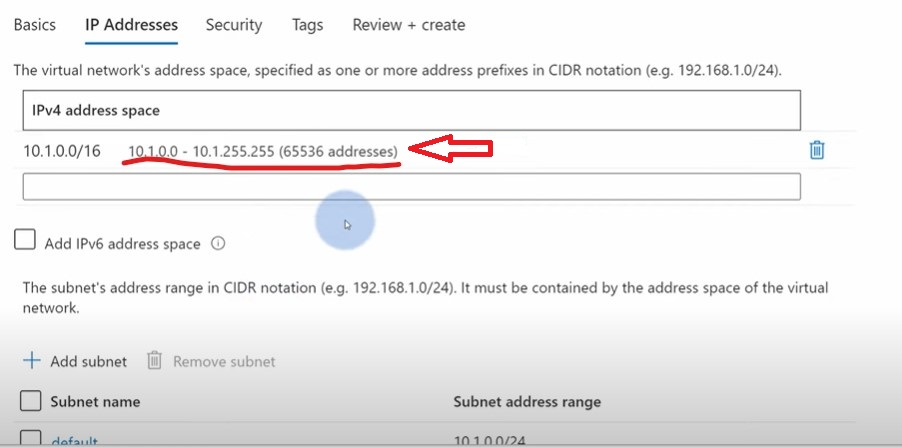
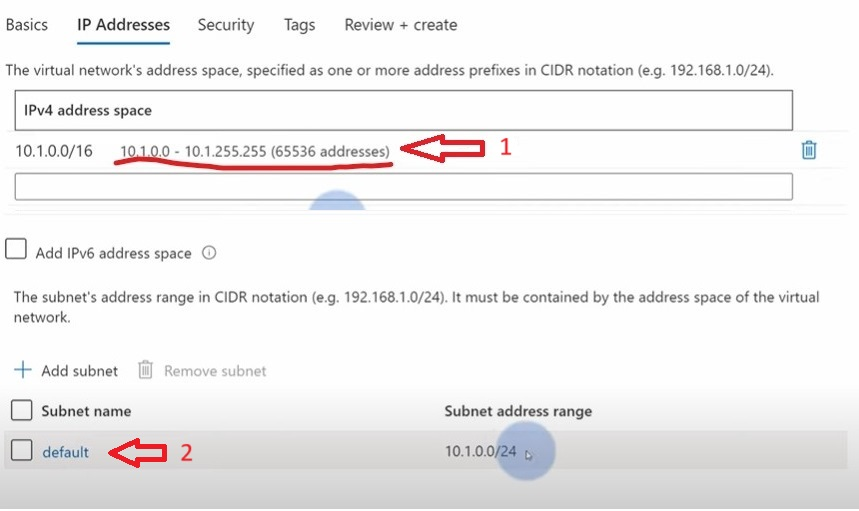
notes

diff --git a/Azure/README - ep_25.md b/Azure/README - ep_25.md
@@ -25,11 +25,13 @@ All of that things/processes like controlling, verifying, tracking and managing 
 
 # Microsoft Entra ID ![logo33](https://github.com/Julian22222/Clouds/blob/main/Azure/logo/logo33.jpg)
 
-Azure Active Directory (Azure AD) is now Microsoft Entra ID
+Previous service --> Azure Active Directory (Azure AD) is now Microsoft Entra ID
 
 ![pic136](https://github.com/Julian22222/Clouds/blob/main/Azure/IMG/pic136.jpg)
 
-Everything that we did so far in Azure Portal when we as a users were connecting to Azure and managing our Subscriptions, our Resources like VMs, Databases and Resource Groups went through Azure AD. So not only Azure AD is storing our Azure accounts but also is granting permissions to access Azure Resources and it governs/control all the access to those specific resources. Also Azure AD doesn't only work with Azure platform. If you are using one of the live.com services liek -> SKYPE, OUTLOOK, ONEDRIVE. Again your user account on live.com is also stored in Azure AD and also Azure AD governing/controlling access to those services. If you are using your organizational resources like -> ONEDRIVE for business, SHAREPOINT, POWERBI, TEAMS or any other product from Office 365 platform again you are going through Azure AD. Azure AD manages your users groups, licenses and access to those services. Also, you can extend your own applications with authentication and authorization features of Azure Active Directory (Azure AD). Azure AD is quite powerful service
+Everything that we did so far in Azure Portal when we as a users were connecting to Azure and managing our Subscriptions, our Resources like VMs, Databases and Resource Groups went through Microsoft Entra ID. So not only Microsoft Entra ID is storing our Azure accounts but also is granting permissions to access Azure Resources and it governs/control all the access to those specific resources. Also Microsoft Entra ID doesn't only work with Azure platform. If you are using one of the live.com services liek -> SKYPE, OUTLOOK, ONEDRIVE. Again your user account on live.com is also stored in Microsoft Entra ID and also Microsoft Entra ID governing/controlling access to those services. If you are using your organizational resources like -> ONEDRIVE for business, SHAREPOINT, POWERBI, TEAMS or any other product from Office 365 platform again you are going through Azure AD. Microsoft Entra ID manages your users groups, licenses and access to those services. Also, you can extend your own applications with authentication and authorization features of Microsoft Entra ID.
+
+Microsoft Entra ID is quite powerful service
 
 # How to use Azure Active Directory (Azure AD) --> now it is Microsoft Entra ID
 
@@ -39,7 +41,7 @@ There are multiple ways how you can access Microsoft Entra ID.
 
 ![pic137](https://github.com/Julian22222/Clouds/blob/main/Azure/IMG/pic137.jpg)
 
-In order to manage Azure Active Directory (Azure AD) you need to have a Global administrator (step 1 on the picture), You can check that in the Microsoft Entra ID panel. Only then you will be able to manage evry aspect of it.
+In order to manage Microsoft Entra ID you need to have a Global administrator (step 1 on the picture), You can check that in the Microsoft Entra ID panel. Only then you will be able to manage every aspect of it.
 
 On the left side menu you have a lot of blades that allow you to manage most important things when it comes to Identities. For example: Users and Groups <- will allow you to create new Users and Groups (step 2 on the picture).
 
@@ -48,10 +50,10 @@ On the left side menu you have a lot of blades that allow you to manage most imp
 ![pic138](https://github.com/Julian22222/Clouds/blob/main/Azure/IMG/pic138.jpg)
 
 - Let's create new User Identity, Click on Users and then click -> + New user (to create new user)
-- Fill new User Identity form:
-  - User name <- which is our login and + add the domain (here you can use custom domain as well)
+- Fill new User Identity form: (see picture above)
+  - User name <- which is our login and + add the domain (here you can use custom domain as well), it is work email / user name for Azure Portal
   - Name <-- Display name (this name that will be displayed everywhere else in Azure Portal especially when we search for the specific user)
-  - Password (we can either auto generate or create yourself)
+  - Password (we can either auto generate or create yourself). Pasword to LogIn to Azure Portal
 - Then press --> Create
 
 And our new User Identity has been created --> It will show on Microsoft Entra ID panel. We can prove that this Identity works by LogIn to Azure Portal.
@@ -61,18 +63,23 @@ And our new User Identity has been created --> It will show on Microsoft Entra I
 - Go to Groups
 - Press --> + New group (to create new group)
 - Fill new Group form:
-  - Group type (Security)
+  - Group type --> (choose Security)
   - Group name
   - Members <-- Here you can assign members to this Group
 - Then hit --> Create
+
+This just created group can be assign to Role assignment --> in IAM (in Resource Group) --> step
 
 ### Where to use just created Users and Groups
 
 ![pic139](https://github.com/Julian22222/Clouds/blob/main/Azure/IMG/pic139.jpg)
 
-- When you have created User Identity (through Microsoft Entra ID) or a Group you can go to specific Resource Group (wehere you want to manage some user accesability) and on the left side menu click --> Access control (IAM) (step 1 on the picture).
+![pic139a](https://github.com/Julian22222/Clouds/blob/main/Azure/IMG/pic139a.jpg)
+
+- When you have created User Identity (through Microsoft Entra ID) or a Group you can go to specific Resource Group (where you want to manage some user accesability) and on the left side menu click --> Access control (IAM) (step 1 on the picture).
 - Then click --> + Add. It is step 2 on the picture (to add role assignment for this resource group, step 3 on the picture).
-- Then give an access/assign a Role (example: Owner, reader, contributor, etc.) for a new user/ or full Users Group that we just created --> for this specifc Resource Group.
+- Then give an access/assign a Role (example: Owner (full administrative access to this Resource Group), reader, contributor, etc.) for a new user/ or full Users Group that we just created --> for this specifc Resource Group. It is step 4
+- In step 5 you can assign particular user or Group of users for particular Resource Group
 
 - When you have added new User to some certain Resource Group, this Resource group will be shown in that User's Resource Group section. For example if you have added Tom to your Resource Group which is called RG-Test, then Tom will have this RG-Test Resource Group in his Azure Portal account.
 

diff --git a/Azure/README - ep_10.md b/Azure/README - ep_10.md
@@ -58,7 +58,7 @@ Imagine you have 2 Virtual Machines within a single Virtual Network placed in 2 
   - Resource group
   - Name
   - Region (Virtual Network is a Single Region Resource)
-  - IP Address ![pic53](https://github.com/Julian22222/Clouds/blob/main/Azure/IMG/pic53.jpg) --> where you can allocate address space for your Virtual Network. If you leave it as default, it will allocate 65 536 addresses for you to use. At the bottom you have a default Subnet. Default Subnet ![pic54](https://github.com/Julian22222/Clouds/blob/main/Azure/IMG/pic54.jpg) is a requirement for every Azure Virtual Network. This is a place where you can allocate part of your address space.
+  - IP Address (step 1 on the picture below) ![pic53](https://github.com/Julian22222/Clouds/blob/main/Azure/IMG/pic53.jpg) --> where you can allocate address space for your Virtual Network. If you leave it as default, it will allocate 65 536 addresses for you to use. At the bottom you have a default Subnet (step 2 on the picture above). Default Subnet is a requirement for every Azure Virtual Network. This is a place where you can allocate part of your address space.
   - Add Subnet
   - Security --> here you can enable some additional security features for your Virtual Network -> like Azure Azure firewall, DDoS Protection or BastionHost
 
@@ -69,7 +69,7 @@ You need to go to VM resource and Open default Virtual Network setting.
 Virtual Networks have great feature that allows to see Diagram of your connection Infrastructure.
 Open Virtual Network default service and Put in search bar --> Diagram. Azure will draw a Diagram for you. ![pic55](https://github.com/Julian22222/Clouds/blob/main/Azure/IMG/pic55.jpg).
 
-It will represent your current Networking Infrastructure for this specifc Virtual Network. From the PICTURE we have--> az-900-vm-vnet Virtual Network on the top with 1 Subnet--> called default (located lower on the picture 55). And then there is 1 Network Interface (called amdemo-vm119, which located lower on the picture) that is connected directly to the Subnet which is used by a Virtual Machine which is called --> amdemo-vm (located on the left bottom line on picture 55). There is also a public IP connected to this Networking Interface allowing you to connect to this Virtual Machine from the Public Internet --> which is called amdemo-vm-ip (located on the right bottom line on picture). And the Network Security Group (NSG)--> which is called amdemo-vm-nsg (located in the center of bottom line). It controls all the traffic that goes to this virtual machine through this Networking Interface.
+It will represent your current Networking Infrastructure for this specifc Virtual Network. From the PICTURE we have--> az-900-vm-vnet Virtual Network on the top with 1 Subnet--> called default (located lower on the picture above). And then there is 1 Network Interface (called amdemo-vm119, which located lower on the picture) that is connected directly to the Subnet which is used by a Virtual Machine which is called --> amdemo-vm (located on the left bottom line on picture). There is also a public IP connected to this Networking Interface allowing you to connect to this Virtual Machine from the Public Internet --> which is called amdemo-vm-ip (located on the right bottom line on picture). And the Network Security Group (NSG)--> which is called amdemo-vm-nsg (located in the center of bottom line). It controls all the traffic that goes to this virtual machine through this Networking Interface.
 
 This Diagram not only allows you very easily to see how your networking is organized within this Virtual Network, but also allows you to quickly find related resources. For instance if you want to manage Security rules for this Virtual Machine you can simply click on the Network Security Group (NSG). And all those components that you have seen on the Diagram are used to manage everything related to Networking for this Virtual Machine.
 

diff --git a/Azure/README - ep_26.md b/Azure/README - ep_26.md
@@ -1,12 +1,13 @@
-# Azure Security Center
+# Azure Security Center ![logo34](https://github.com/Julian22222/Clouds/blob/main/Azure/logo/logo34.jpg)
 
 What is Security Center and how does this service help us protect our Azure resources?
 
 ![pic140](https://github.com/Julian22222/Clouds/blob/main/Azure/IMG/pic140.jpg)
 
-In Azure Security center is responsible for continuously scanning your Azure services, whether those are Platform as a Service or Infrastructure as a Service services. Security Center continuously scans those services and helps you protect your Azure environment. Additionally Security Center provides you with recommendations, so that you administrators and developers can act immediately and protect their environments on their on their own.
+Azure Security center is responsible for continuously scanning your Azure services, whether those are Platform as a Service or Infrastructure as a Service services. Security Center continuously scans those services and helps you protect your Azure environment. Additionally Security Center provides you with recommendations, so that you administrators and developers can act immediately and protect their environments on their own.
 
 One cool feature of security center is that while it protects Azure services you can also install agents on your On-Premise Virtual Machines to extend the functionality of Security Center to protect your hybrid environments. It reminds Azure Advisor with similar functionality.
+
 ![pic141](https://github.com/Julian22222/Clouds/blob/main/Azure/IMG/pic141.jpg)
 
 We talked about how Azure Advisor scans your environments and provide you with a lot of recommendations including security recommendations. It is worth noting that those security recommendations are actually provided by Security Center itself.
@@ -21,11 +22,12 @@ So you can review your recommendations directly in Security Center or you can ac
 - type Security
 - on the left menu panel click --> Security Center (Here you can see all recommendations that you need to apply, and you can see how important are these recommendations --> the most impactful recommendations will be always be at the top)
   Using left side menu we can see, adjust many things
-  ![pic143](https://github.com/Julian22222/Clouds/blob/main/Azure/IMG/pic143.jpg)
+
+![pic143](https://github.com/Julian22222/Clouds/blob/main/Azure/IMG/pic143.jpg)
 
 - Here you can see adjust your security levels
 - Identity Secure score <-- it is overall status of your environment, it gives you virtual points how secure your environment is.
-- Here you can check risky users, who tried to login to your applications and how many times, you can block those users IP addresses from here
+- Here you can check risky users (Cyber-attack users), who tried to login to your applications and how many times, you can block those users IP addresses from here
 - Here you can check many more things regarding security
 
 Key Characteristics:

diff --git a/Azure/README - ep_24.md b/Azure/README - ep_24.md
@@ -37,7 +37,7 @@ One of the best things about DDoS Protection is that the basic plan for DDoS Pro
   ![pic134](https://github.com/Julian22222/Clouds/blob/main/Azure/IMG/pic134.jpg)
 - Click Protected resources section (step 1 on the picture)
 - Then Click --> + Add(step 2 on the picture) , to add resources to that protection plan.
-- Then in this panel you need to choose the Resource Group and then choose Virtual Network within that Resource Group that will be protected. Then hot --> Add button
+- Then in this panel you need to choose the Resource Group and then choose Virtual Network within that Resource Group that will be protected. Then hit --> Add button
 
 Now all the Resources within this Virtual Network will be protected.
 
@@ -53,4 +53,4 @@ If attacker will try to attack your service with hundreds of servers all that tr
 - Two tiers:
   - Basic - automatically enabled for all Azure services. If you use any Azure services which are exposed to a public internet and could be targeted by DDoS attack and those are automatically protected by the basic tier of Azure DDoS protection.
   - Standard - additional mitigation & monitoring capabilities for all the resources which are located within Azure Virtual Networks.
-- Standard tier uses machine learning to analyze traffic patterns for better accuracy. Standard tier is designed for more high-value applications of yours
+    Standard tier uses machine learning to analyze traffic patterns for better accuracy. Standard tier is designed for more high-value applications of yours
